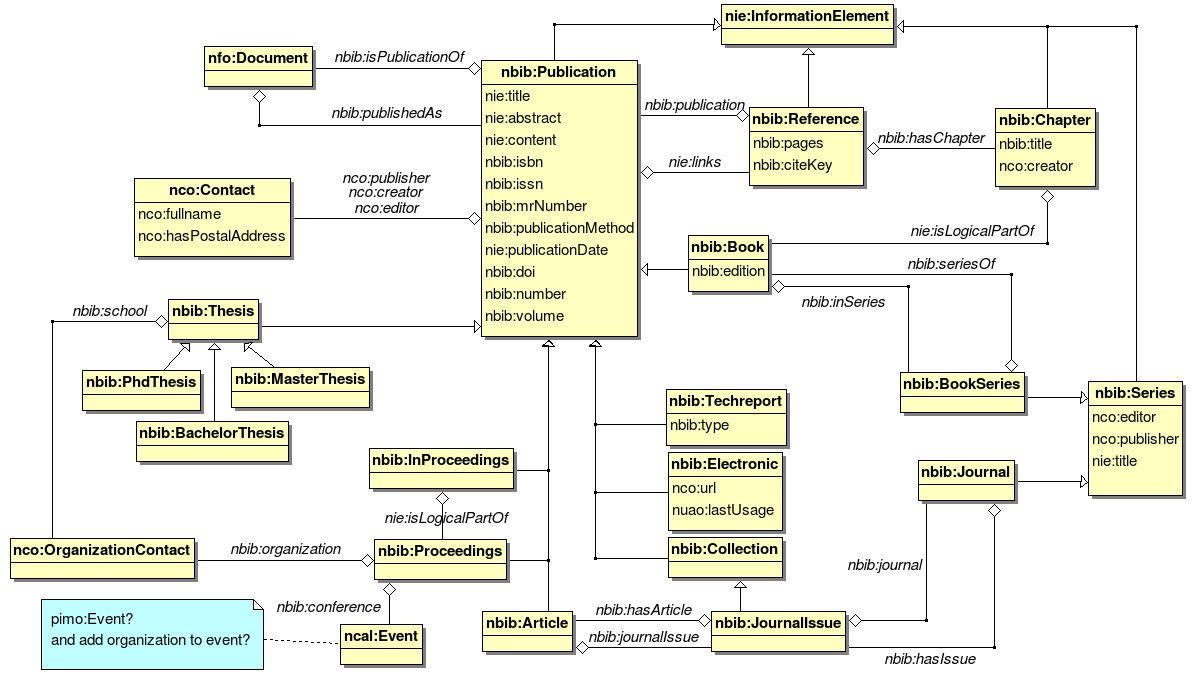
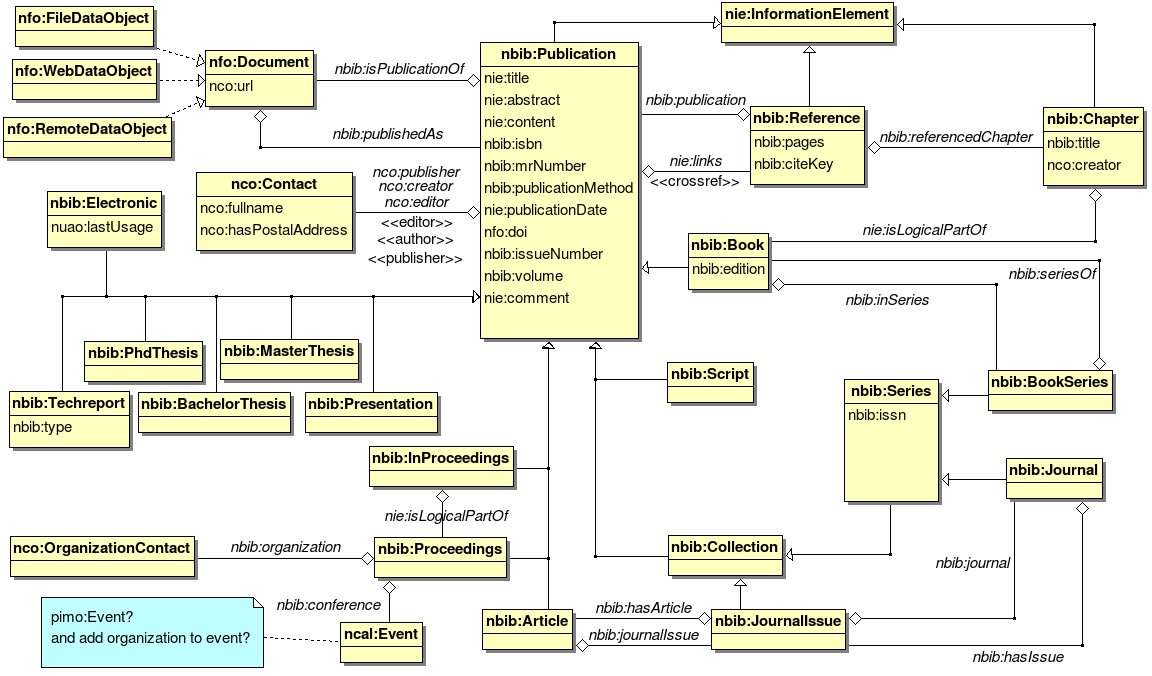
adopted nbib ontology comments from phreedom

diff --git a/src/sidebar/publicationwidget.cpp b/src/sidebar/publicationwidget.cpp
@@ -108,11 +108,6 @@ void PublicationWidget::newBibEntryTypeSelected(int index)
         case BibType_JournalIssue:
             newtype.append(Nepomuk::Vocabulary::NBIB::Collection());
             break;
-        case BibType_Mastersthesis:
-        case BibType_Bachelorthesis:
-        case BibType_Phdthesis:
-            newtype.append(Nepomuk::Vocabulary::NBIB::Thesis());
-            break;
         }
 
         m_publication.setTypes(newtype);
@@ -231,9 +226,8 @@ void PublicationWidget::setupWidget()
     ui->editJournal->setPropertyUrl( Nepomuk::Vocabulary::NBIB::journalIssue() );
     ui->editLCCN->setPropertyUrl( Nepomuk::Vocabulary::NBIB::lccn() );
     ui->editMRNumber->setPropertyUrl( Nepomuk::Vocabulary::NBIB::mrNumber() );
-    ui->editNumber->setPropertyUrl( Nepomuk::Vocabulary::NBIB::number() );
+    ui->editNumber->setPropertyUrl( Nepomuk::Vocabulary::NBIB::issueNumber() );
     ui->editPublisher->setPropertyUrl( Nepomuk::Vocabulary::NCO::publisher() );
-    ui->editSchool->setPropertyUrl( Nepomuk::Vocabulary::NBIB::school() );
     ui->editSeries->setPropertyUrl( Nepomuk::Vocabulary::NBIB::inSeries() );
     ui->editTitle->setPropertyUrl( Nepomuk::Vocabulary::NIE::title() );
     ui->editType->setPropertyUrl( Nepomuk::Vocabulary::NBIB::type() );
@@ -257,7 +251,6 @@ void PublicationWidget::setupWidget()
     connect(this, SIGNAL(resourceChanged(Nepomuk::Resource&)), ui->editMRNumber, SLOT(setResource(Nepomuk::Resource&)));
     connect(this, SIGNAL(resourceChanged(Nepomuk::Resource&)), ui->editNumber, SLOT(setResource(Nepomuk::Resource&)));
     connect(this, SIGNAL(resourceChanged(Nepomuk::Resource&)), ui->editPublisher, SLOT(setResource(Nepomuk::Resource&)));
-    connect(this, SIGNAL(resourceChanged(Nepomuk::Resource&)), ui->editSchool, SLOT(setResource(Nepomuk::Resource&)));
     connect(this, SIGNAL(resourceChanged(Nepomuk::Resource&)), ui->editSeries, SLOT(setResource(Nepomuk::Resource&)));
     connect(this, SIGNAL(resourceChanged(Nepomuk::Resource&)), ui->editTitle, SLOT(setResource(Nepomuk::Resource&)));
     connect(this, SIGNAL(resourceChanged(Nepomuk::Resource&)), ui->editType, SLOT(setResource(Nepomuk::Resource&)));
@@ -444,7 +437,7 @@ void PublicationWidget::layoutArticle()
     ui->editHowPublished->setEnabled(false);
 
 
-    ui->editSchool->setEnabled(false);
+
     ui->editSeries->setEnabled(false);
     ui->editUrl->setEnabled(false);
     ui->editType->setEnabled(false);
@@ -472,7 +465,7 @@ void PublicationWidget::layoutBook()
     ui->editHowPublished->setEnabled(false);
 
 
-    ui->editSchool->setEnabled(false);
+
     ui->editSeries->setEnabled(false);
     ui->editUrl->setEnabled(false);
     ui->editType->setEnabled(false);
@@ -501,7 +494,7 @@ void PublicationWidget::layoutBooklet()
     ui->editEprint->setEnabled(false);
 
 
-    ui->editSchool->setEnabled(false);
+
     ui->editSeries->setEnabled(false);
     ui->editUrl->setEnabled(false);
     ui->editType->setEnabled(false);
@@ -530,7 +523,7 @@ void PublicationWidget::layoutCollection()
     ui->editEprint->setEnabled(false);
 
 
-    ui->editSchool->setEnabled(false);
+
     ui->editSeries->setEnabled(false);
     ui->editUrl->setEnabled(false);
     ui->editType->setEnabled(false);
@@ -558,7 +551,7 @@ void PublicationWidget::layoutInproceedings()
     ui->editEprint->setEnabled(false);
 
 
-    ui->editSchool->setEnabled(false);
+
     ui->editSeries->setEnabled(true);
     ui->editUrl->setEnabled(false);
     ui->editType->setEnabled(false);
@@ -586,7 +579,7 @@ void PublicationWidget::layoutManual()
     ui->editEprint->setEnabled(false);
 
 
-    ui->editSchool->setEnabled(false);
+
     ui->editSeries->setEnabled(false);
     ui->editUrl->setEnabled(false);
     ui->editType->setEnabled(false);
@@ -602,7 +595,7 @@ void PublicationWidget::layoutBachelorthesis()
     ui->editCopyright->setEnabled(true);
 
     ui->editDate->setEnabled(true);
-    ui->editSchool->setEnabled(true);
+
 
     ui->editHowPublished->setEnabled(false);
     ui->editPublisher->setEnabled(false);
@@ -630,7 +623,7 @@ void PublicationWidget::layoutMastersthesis()
     ui->editCopyright->setEnabled(true);
 
     ui->editDate->setEnabled(true);
-    ui->editSchool->setEnabled(true);
+
 
     ui->editHowPublished->setEnabled(false);
     ui->editPublisher->setEnabled(false);
@@ -670,7 +663,7 @@ void PublicationWidget::layoutMisc()
     ui->editEprint->setEnabled(true);
 
 
-    ui->editSchool->setEnabled(true);
+
     ui->editSeries->setEnabled(true);
     ui->editUrl->setEnabled(true);
     ui->editType->setEnabled(true);
@@ -686,7 +679,7 @@ void PublicationWidget::layoutPhdthesis()
     ui->editCopyright->setEnabled(true);
 
     ui->editDate->setEnabled(true);
-    ui->editSchool->setEnabled(true);
+
 
     ui->editHowPublished->setEnabled(false);
     ui->editPublisher->setEnabled(false);
@@ -726,7 +719,7 @@ void PublicationWidget::layoutProceedings()
     ui->editEditor->setEnabled(true);
     ui->editEprint->setEnabled(false);
 
-    ui->editSchool->setEnabled(false);
+
     ui->editSeries->setEnabled(false);
     ui->editUrl->setEnabled(false);
     ui->editType->setEnabled(false);
@@ -755,7 +748,7 @@ void PublicationWidget::layoutTechreport()
     ui->editEditor->setEnabled(false);
     ui->editEprint->setEnabled(false);
 
-    ui->editSchool->setEnabled(false);
+
     ui->editSeries->setEnabled(false);
     ui->editUrl->setEnabled(false);
 }
@@ -782,7 +775,7 @@ void PublicationWidget::layoutUnpublished()
     ui->editEprint->setEnabled(false);
 
 
-    ui->editSchool->setEnabled(false);
+
     ui->editSeries->setEnabled(false);
     ui->editUrl->setEnabled(false);
     ui->editType->setEnabled(false);
@@ -811,7 +804,7 @@ void PublicationWidget::layoutPatent()
     ui->editEdition->setEnabled(false);
     ui->editEditor->setEnabled(false);
     ui->editEprint->setEnabled(false);
-    ui->editSchool->setEnabled(false);
+
     ui->editSeries->setEnabled(false);
     ui->editUrl->setEnabled(false);
     ui->editType->setEnabled(false);
@@ -840,7 +833,7 @@ void PublicationWidget::layoutElectronic()
     ui->editEdition->setEnabled(false);
     ui->editEditor->setEnabled(false);
     ui->editEprint->setEnabled(false);
-    ui->editSchool->setEnabled(false);
+
     ui->editSeries->setEnabled(false);
     ui->editType->setEnabled(false);
 }
@@ -867,7 +860,7 @@ void PublicationWidget::layoutJournalIssue()
     ui->editEdition->setEnabled(false);
     ui->editEditor->setEnabled(false);
     ui->editEprint->setEnabled(true);
-    ui->editSchool->setEnabled(false);
+
     ui->editSeries->setEnabled(false);
     ui->editType->setEnabled(false);
 }

diff --git a/src/core/bibtexexporter.cpp b/src/core/bibtexexporter.cpp
@@ -718,7 +718,7 @@ QString BibTexExporter::getEprint(const Nepomuk::Resource &document)
 
 QString BibTexExporter::getHasChapter(const Nepomuk::Resource &document)
 {
-    Nepomuk::Resource chapter = document.property(Nepomuk::Vocabulary::NBIB::hasChapter()).toResource();
+    Nepomuk::Resource chapter = document.property(Nepomuk::Vocabulary::NBIB::referencedChapter()).toResource();
 
     QString chapterTitle = chapter.property(Nepomuk::Vocabulary::NIE::title()).toString();
     Nepomuk::Resource book = chapter.property(Nepomuk::Vocabulary::NIE::hasLogicalPart()).toResource();
@@ -792,7 +792,7 @@ QString BibTexExporter::getInJournal(const Nepomuk::Resource &document)
     }
 
     // if we have a JournalIssue, get the journal contact and number/volume
-    QString journalNumber = journalIssue.property(Nepomuk::Vocabulary::NBIB::number()).toString();
+    QString journalNumber = journalIssue.property(Nepomuk::Vocabulary::NBIB::issueNumber()).toString();
     QString journalVolume = journalIssue.property(Nepomuk::Vocabulary::NBIB::volume()).toString();
 
     //Nepomuk::Resource journal = document.property(Nepomuk::Vocabulary::NBIB::journal()).toResource();
@@ -974,15 +974,15 @@ QString BibTexExporter::getPublicationDate(const Nepomuk::Resource &document)
 QString BibTexExporter::getSchool(const Nepomuk::Resource &document)
 {
 
-    Nepomuk::Resource school = document.property(Nepomuk::Vocabulary::NBIB::school()).toResource();
+//    Nepomuk::Resource school = document.property(Nepomuk::Vocabulary::NBIB::school()).toResource();
 
-    //TODO don't rely only on fullname of NC::Contact
-    QString schoolString = school.property(Nepomuk::Vocabulary::NCO::fullname()).toString();
+//    //TODO don't rely only on fullname of NC::Contact
+    QString schoolString;// = school.property(Nepomuk::Vocabulary::NCO::fullname()).toString();
 
-    if(!schoolString.isEmpty()) {
-        schoolString.prepend(QLatin1String("\tschool = \""));
-        schoolString.append(QLatin1String("\""));
-    }
+//    if(!schoolString.isEmpty()) {
+//        schoolString.prepend(QLatin1String("\tschool = \""));
+//        schoolString.append(QLatin1String("\""));
+//    }
 
     return schoolString;
 }

diff --git a/src/sidebar/referencewidget.cpp b/src/sidebar/referencewidget.cpp
@@ -51,7 +51,7 @@ ReferenceWidget::ReferenceWidget(QWidget *parent)
     ui->removeButton->setIcon(KIcon(QLatin1String("document-close")));
 
     //set propertyURL of the edit elements
-    ui->chapterEdit->setPropertyUrl( Nepomuk::Vocabulary::NBIB::hasChapter() );
+    ui->chapterEdit->setPropertyUrl( Nepomuk::Vocabulary::NBIB::referencedChapter() );
     ui->chapterEdit->setPropertyCardinality(PropertyEdit::UNIQUE_PROPERTY);
     ui->citeKeyEdit->setPropertyUrl( Nepomuk::Vocabulary::NBIB::citeKey() );
     ui->citeKeyEdit->setPropertyCardinality(PropertyEdit::UNIQUE_PROPERTY);

diff --git a/src/propertywidgets/chapteredit.cpp b/src/propertywidgets/chapteredit.cpp
@@ -65,7 +65,7 @@ void ChapterEdit::updateResource(const QString & text)
     Nepomuk::Resource bookResource = resource().property(Nepomuk::Vocabulary::NBIB::publication()).toResource();
 
     bookResource.setProperty(Nepomuk::Vocabulary::NIE::hasLogicalPart(),
-                             resource().property( Nepomuk::Vocabulary::NBIB::hasChapter()).toResource());
+                             resource().property( Nepomuk::Vocabulary::NBIB::referencedChapter()).toResource());
     resource().setProperty(Nepomuk::Vocabulary::NIE::isLogicalPartOf(), bookResource);
 
 }
